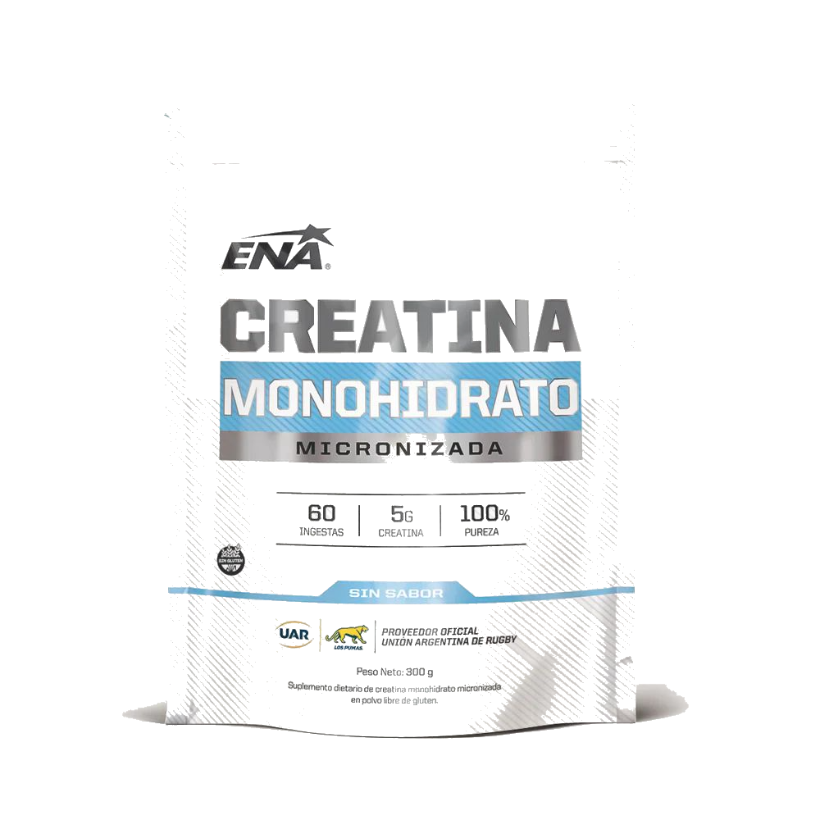
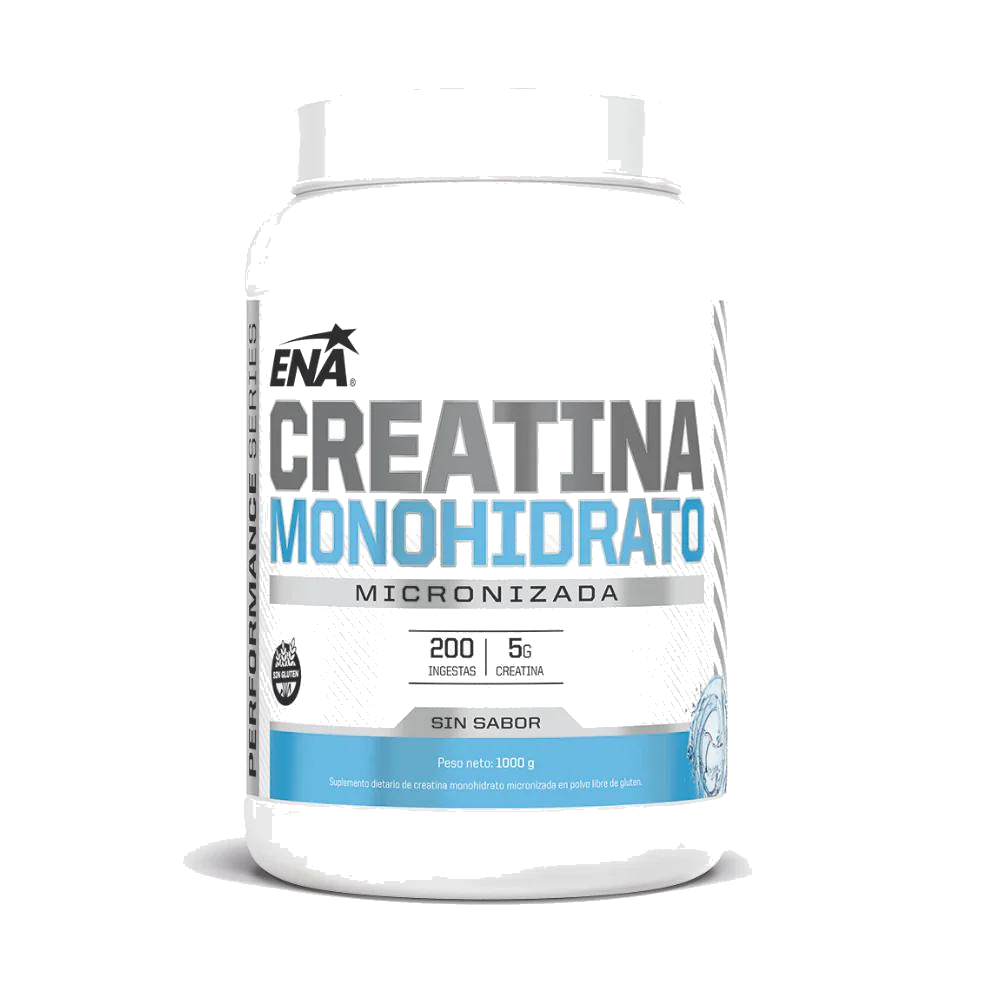
commit

Changed region(s): [[0.1524, 0.2744, 0.8537, 0.9146], [0.2744, 0.0915, 0.7012, 0.2134]]

diff --git a/js/script.js b/js/script.js
@@ -12,14 +12,14 @@ var IMG = 'assets/products/';
 
 /* ---------------- CATÁLOGO ---------------- */
 var CATALOG = [
-  {id:'mm-van', name:'Mutant Mass 5KG', brand:'Star Nutrition', cat:'Ganadores de masa', goal:'Volumen', flavor:'Vainilla · 55 tomas', price:99000, priceCard:108900, rating:4.9, reviews:212, badge:'MÁS VENDIDO', pop:99, img:IMG+'mutant-mass-vanilla.png'},
-  {id:'mm-cho', name:'Mutant Mass 5KG', brand:'Star Nutrition', cat:'Ganadores de masa', goal:'Volumen', flavor:'Chocolate suizo · 55 tomas', price:99000, priceCard:108900, rating:4.9, reviews:187, pop:95, img:IMG+'mutant-mass-chocolate.png'},
-  {id:'mm-fru', name:'Mutant Mass 5KG', brand:'Star Nutrition', cat:'Ganadores de masa', goal:'Volumen', flavor:'Frutilla · 55 tomas', price:99000, priceCard:108900, rating:4.8, reviews:103, pop:90, img:IMG+'mutant-mass-frutilla.png'},
-  {id:'mm-coo', name:'Mutant Mass 5KG', brand:'Star Nutrition', cat:'Ganadores de masa', goal:'Volumen', flavor:'Cookies & Cream · 55 tomas', price:99000, priceCard:108900, rating:4.9, reviews:118, pop:92, img:IMG+'mutant-mass-cookies.png'},
-  {id:'mm-str', name:'Mutant Mass 1.53KG', brand:'Star Nutrition', cat:'Ganadores de masa', goal:'Volumen', flavor:'Frutilla · 17 tomas', price:38300, priceCard:42200, rating:4.8, reviews:96, pop:74, img:IMG+'mutant-mass-strawberry.png'},
-  {id:'mm-str-van', name:'Mutant Mass 1.53KG', brand:'Star Nutrition', cat:'Ganadores de masa', goal:'Volumen', flavor:'Vainilla · 17 tomas', price:38300, priceCard:42200, rating:4.8, reviews:88, pop:73, img:IMG+'mutant-mass-153-vanilla.png'},
-  {id:'mm-str-cho', name:'Mutant Mass 1.53KG', brand:'Star Nutrition', cat:'Ganadores de masa', goal:'Volumen', flavor:'Chocolate suizo · 17 tomas', price:38300, priceCard:42200, rating:4.8, reviews:82, pop:72, img:IMG+'mutant-mass-153-chocolate.png'},
-  {id:'mm-str-coo', name:'Mutant Mass 1.53KG', brand:'Star Nutrition', cat:'Ganadores de masa', goal:'Volumen', flavor:'Cookies & Cream · 17 tomas', price:38300, priceCard:42200, rating:4.8, reviews:79, pop:71, img:IMG+'mutant-mass-153-cookies.png'},
+  {id:'mm-van', name:'Mutant Mass 5KG', brand:'Star Nutrition', cat:'Ganadores de masa', goal:'Volumen', flavor:'Vainilla · 55 tomas', price:105000, priceCard:115500, rating:4.9, reviews:212, badge:'MÁS VENDIDO', pop:99, img:IMG+'mutant-mass-vanilla.png'},
+  {id:'mm-cho', name:'Mutant Mass 5KG', brand:'Star Nutrition', cat:'Ganadores de masa', goal:'Volumen', flavor:'Chocolate suizo · 55 tomas', price:105000, priceCard:115500, rating:4.9, reviews:187, pop:95, img:IMG+'mutant-mass-chocolate.png'},
+  {id:'mm-fru', name:'Mutant Mass 5KG', brand:'Star Nutrition', cat:'Ganadores de masa', goal:'Volumen', flavor:'Frutilla · 55 tomas', price:105000, priceCard:115500, rating:4.8, reviews:103, pop:90, img:IMG+'mutant-mass-frutilla.png'},
+  {id:'mm-coo', name:'Mutant Mass 5KG', brand:'Star Nutrition', cat:'Ganadores de masa', goal:'Volumen', flavor:'Cookies & Cream · 55 tomas', price:105000, priceCard:115500, rating:4.9, reviews:118, pop:92, img:IMG+'mutant-mass-cookies.png'},
+  {id:'mm-str', name:'Mutant Mass 1.53KG', brand:'Star Nutrition', cat:'Ganadores de masa', goal:'Volumen', flavor:'Frutilla · 17 tomas', price:39500, priceCard:43450, rating:4.8, reviews:96, pop:74, img:IMG+'mutant-mass-strawberry.png'},
+  {id:'mm-str-van', name:'Mutant Mass 1.53KG', brand:'Star Nutrition', cat:'Ganadores de masa', goal:'Volumen', flavor:'Vainilla · 17 tomas', price:39500, priceCard:43450, rating:4.8, reviews:88, pop:73, img:IMG+'mutant-mass-153-vanilla.png'},
+  {id:'mm-str-cho', name:'Mutant Mass 1.53KG', brand:'Star Nutrition', cat:'Ganadores de masa', goal:'Volumen', flavor:'Chocolate suizo · 17 tomas', price:39500, priceCard:43450, rating:4.8, reviews:82, pop:72, img:IMG+'mutant-mass-153-chocolate.png'},
+  {id:'mm-str-coo', name:'Mutant Mass 1.53KG', brand:'Star Nutrition', cat:'Ganadores de masa', goal:'Volumen', flavor:'Cookies & Cream · 17 tomas', price:39500, priceCard:43450, rating:4.8, reviews:79, pop:71, img:IMG+'mutant-mass-153-cookies.png'},
   {id:'bcaa-grn', name:'MTOR BCAA', brand:'Star Nutrition', cat:'Aminoácidos', goal:'Recuperación', flavor:'Green Lemonade · 20 serv', price:24000, priceCard:26400, rating:4.9, reviews:143, pop:88, img:IMG+'mtor-bcaa-green.png'},
   {id:'bcaa-fr', name:'MTOR BCAA', brand:'Star Nutrition', cat:'Aminoácidos', goal:'Recuperación', flavor:'Frutos Rojos · 20 serv', price:24000, priceCard:26400, rating:4.7, reviews:88, pop:70, img:IMG+'mtor-bcaa-frutos.png'},
   {id:'bcaa-sl', name:'MTOR BCAA', brand:'Star Nutrition', cat:'Aminoácidos', goal:'Recuperación', flavor:'Frutilla–Lima · 20 serv', price:24000, priceCard:26400, rating:4.8, reviews:67, pop:65, img:IMG+'mtor-bcaa-strawberry.png'},
@@ -27,35 +27,36 @@ var CATALOG = [
   {id:'crea-1k', name:'Creatina Monohidrato 1KG', brand:'Star Nutrition', cat:'Creatinas', goal:'Fuerza', flavor:'Sin sabor · 200 serv', price:71000, priceCard:78500, rating:4.9, reviews:110, pop:80, img:IMG+'creatine-1000.png'},
   {id:'crea-bag-sin', name:'Creatina Monohidrato Doypack 300g', brand:'Star Nutrition', cat:'Creatinas', goal:'Fuerza', flavor:'Sin sabor · 60 serv', price:23000, priceCard:25300, rating:4.9, reviews:96, pop:84, img:IMG+'creatine-bag.png'},
   {id:'crea-bag', name:'Creatina Monohidrato Doypack 300g', brand:'Star Nutrition', cat:'Creatinas', goal:'Fuerza', flavor:'Frutos Rojos · 60 serv', price:23000, priceCard:25300, rating:4.8, reviews:74, pop:72, img:IMG+'star-creatine-fr-bag.png'},
-  {id:'col-fr', name:'Colágeno Hidrolizado', brand:'Star Nutrition', cat:'Colágeno', goal:'Recuperación', flavor:'Frutos Rojos · 210g', price:16000, priceCard:17600, rating:4.8, reviews:74, pop:68, img:IMG+'collagen-frutos.png'},
-  {id:'col-lim', name:'Colágeno Hidrolizado', brand:'Star Nutrition', cat:'Colágeno', goal:'Recuperación', flavor:'Limón · 210g · 20 serv', price:16000, priceCard:17600, rating:4.8, reviews:63, pop:67, img:IMG+'collagen-limon.png'},
-  {id:'star-col-sport', name:'Colágeno Sport', brand:'Star Nutrition', cat:'Colágeno', goal:'Recuperación', flavor:'Naranja · 360g · 30 serv', price:18600, priceCard:20500, rating:4.8, reviews:47, pop:66, img:IMG+'collagen-sport-naranja.png'},
-  {id:'col-pl', name:'Colágeno Plus', brand:'Star Nutrition', cat:'Colágeno', goal:'Recuperación', flavor:'Limón · 360g', price:18600, priceCard:20500, rating:4.7, reviews:51, pop:60, img:IMG+'collagen-plus-limon.png'},
-  {id:'mag', name:'Citrato de Magnesio', brand:'Star Nutrition', cat:'Citrato de Magnesio', goal:'Recuperación', flavor:'Frutos Rojos · 500g · 142 serv', price:24000, priceCard:26400, rating:4.8, reviews:129, pop:75, img:IMG+'magnesio.png'},
-  {id:'mag-neutro', name:'Citrato de Magnesio', brand:'Star Nutrition', cat:'Citrato de Magnesio', goal:'Recuperación', flavor:'Sin sabor (neutro) · 500g · 142 serv', price:24000, priceCard:26400, rating:4.8, reviews:84, pop:74, img:IMG+'magnesio-neutro.png'},
+  {id:'col-fr', name:'Colágeno Hidrolizado', brand:'Star Nutrition', cat:'Colágeno', goal:'Recuperación', flavor:'Frutos Rojos · 210g', price:16500, priceCard:18200, rating:4.8, reviews:74, pop:68, img:IMG+'collagen-frutos.png'},
+  {id:'col-lim', name:'Colágeno Hidrolizado', brand:'Star Nutrition', cat:'Colágeno', goal:'Recuperación', flavor:'Limón · 210g · 20 serv', price:16500, priceCard:18200, rating:4.8, reviews:63, pop:67, img:IMG+'collagen-limon.png'},
+  {id:'star-col-sport', name:'Colágeno Sport', brand:'Star Nutrition', cat:'Colágeno', goal:'Recuperación', flavor:'Naranja · 360g · 30 serv', price:19000, priceCard:20900, rating:4.8, reviews:47, pop:66, img:IMG+'collagen-sport-naranja.png'},
+  {id:'col-pl', name:'Colágeno Plus', brand:'Star Nutrition', cat:'Colágeno', goal:'Recuperación', flavor:'Limón · 360g', price:19000, priceCard:20900, rating:4.7, reviews:51, pop:60, img:IMG+'collagen-plus-limon.png'},
+  {id:'mag', name:'Citrato de Magnesio', brand:'Star Nutrition', cat:'Citrato de Magnesio', goal:'Recuperación', flavor:'Frutos Rojos · 500g · 142 serv', price:25000, priceCard:27500, rating:4.8, reviews:129, pop:75, img:IMG+'magnesio.png'},
+  {id:'mag-neutro', name:'Citrato de Magnesio', brand:'Star Nutrition', cat:'Citrato de Magnesio', goal:'Recuperación', flavor:'Sin sabor (neutro) · 500g · 142 serv', price:25000, priceCard:27500, rating:4.8, reviews:84, pop:74, img:IMG+'magnesio-neutro.png'},
   {id:'star-mag-caps', name:'Citrato de Magnesio', brand:'Star Nutrition', cat:'Citrato de Magnesio', goal:'Recuperación', flavor:'60 cápsulas', price:14000, priceCard:15400, rating:4.8, reviews:112, pop:76, img:IMG+'star-magnesio-caps.png'},
-  {id:'star-zma', name:'ZMA', brand:'Star Nutrition', cat:'Resto de suplementos', goal:'Recuperación', flavor:'The Real ZMA · 90 cápsulas', price:14000, priceCard:15400, rating:4.8, reviews:67, pop:70, img:IMG+'star-zma.png'},
+  {id:'star-zma', name:'ZMA', brand:'Star Nutrition', cat:'Resto de suplementos', goal:'Recuperación', flavor:'The Real ZMA · 90 cápsulas', price:14800, priceCard:16280, rating:4.8, reviews:67, pop:70, img:IMG+'star-zma.png'},
   {id:'hyd-li', name:'Hydro Plus Resistencia', brand:'Star Nutrition', cat:'Hidratación', goal:'Resistencia', flavor:'Lima Limón · rinde 10L', price:16000, priceCard:17600, rating:4.6, reviews:42, pop:55, img:IMG+'hydro-plus-lima.png'},
   {id:'hyd-bl', name:'Hydro Plus Resistencia', brand:'Star Nutrition', cat:'Hidratación', goal:'Resistencia', flavor:'Blue Raz · rinde 10L', price:16000, priceCard:17600, rating:4.7, reviews:38, pop:54, img:IMG+'hydro-plus-bluraz.png'},
-  {id:'caf', name:'Cafeína 200', brand:'Star Nutrition', cat:'Energía', goal:'Energía', flavor:'200mg · 30 cápsulas', price:8300, priceCard:9200, rating:4.9, reviews:156, badge:'TOP', pop:90, img:IMG+'caffeine-200.png'},
+  {id:'caf', name:'Cafeína 200', brand:'Star Nutrition', cat:'Energía', goal:'Energía', flavor:'200mg · 30 cápsulas', price:8500, priceCard:9400, rating:4.9, reviews:156, badge:'TOP', pop:90, img:IMG+'caffeine-200.png'},
   {id:'cla', name:'CLA 1000', brand:'Star Nutrition', cat:'Quemadores', goal:'Definición', flavor:'90 cápsulas', price:20000, priceCard:22000, rating:4.5, reviews:63, pop:58, img:IMG+'cla-1000.png'},
-  {id:'lcar', name:'L-Carnitina 1000', brand:'Star Nutrition', cat:'Quemadores', goal:'Definición', flavor:'60 comprimidos', price:12500, priceCard:13750, rating:4.6, reviews:71, pop:62, img:IMG+'l-carnitine.png'},
-  {id:'plant', name:'Proteína Vegetal Just Plant', brand:'Star Nutrition', cat:'Proteínas', goal:'Definición', flavor:'Vegana · 2LB · 30 serv', price:35000, priceCard:38500, rating:4.7, reviews:45, badge:'NUEVO', pop:66, img:IMG+'plant-protein.png'},
+  {id:'lcar', name:'L-Carnitina 1000', brand:'Star Nutrition', cat:'Quemadores', goal:'Definición', flavor:'60 comprimidos', price:17000, priceCard:18700, rating:4.6, reviews:71, pop:62, img:IMG+'l-carnitine.png'},
+  {id:'plant', name:'Proteína Vegetal Just Plant', brand:'Star Nutrition', cat:'Proteínas', goal:'Definición', flavor:'Vegana · 2LB · 30 serv', price:36500, priceCard:40200, rating:4.7, reviews:45, badge:'NUEVO', pop:66, img:IMG+'plant-protein.png'},
   {id:'multi', name:'Multivitamínico Todo en Uno', brand:'Star Nutrition', cat:'Vitaminas', goal:'Salud', flavor:'60 comprimidos', price:18000, priceCard:19800, rating:4.8, reviews:98, pop:78, img:IMG+'multivitamin.png'},
   {id:'iron', name:'IRON Pack Multivitamínico', brand:'Star Nutrition', cat:'Vitaminas', goal:'Salud', flavor:'Fruit Punch · 44 serv', price:85000, priceCard:93500, rating:4.7, reviews:52, pop:64, img:IMG+'iron-pack.png'},
 
   /* ===== ENA ===== */
-  {id:'ena-whey-cho', name:'Proteína Whey Truemade', brand:'ENA', cat:'Proteínas', goal:'Volumen', flavor:'Double Rich Chocolate · 930g', price:65500, priceCard:72100, rating:4.9, reviews:176, badge:'NUEVO', pop:92, img:IMG+'ena-whey-chocolate.png'},
-  {id:'ena-whey-van', name:'Proteína Whey Truemade', brand:'ENA', cat:'Proteínas', goal:'Volumen', flavor:'Vanilla Ice Cream · 930g', price:65500, priceCard:72100, rating:4.8, reviews:131, pop:86, img:IMG+'ena-whey-vainilla.png'},
-  {id:'ena-whey-fru', name:'Proteína Whey Truemade', brand:'ENA', cat:'Proteínas', goal:'Volumen', flavor:'Strawberry Milkshake · 930g', price:65500, priceCard:72100, rating:4.8, reviews:98, pop:80, img:IMG+'ena-whey-frutilla.png'},
-  {id:'ena-whey-coo', name:'Proteína Whey Truemade', brand:'ENA', cat:'Proteínas', goal:'Volumen', flavor:'Cookies & Cream · 930g', price:65500, priceCard:72100, rating:4.9, reviews:142, pop:88, img:IMG+'ena-whey-cookies.png'},
+  {id:'ena-whey-cho', name:'Proteína Whey Truemade', brand:'ENA', cat:'Proteínas', goal:'Volumen', flavor:'Double Rich Chocolate · 930g', price:69500, priceCard:76500, rating:4.9, reviews:176, badge:'NUEVO', pop:92, img:IMG+'ena-whey-chocolate.png'},
+  {id:'ena-whey-van', name:'Proteína Whey Truemade', brand:'ENA', cat:'Proteínas', goal:'Volumen', flavor:'Vanilla Ice Cream · 930g', price:69500, priceCard:76500, rating:4.8, reviews:131, pop:86, img:IMG+'ena-whey-vainilla.png'},
+  {id:'ena-whey-fru', name:'Proteína Whey Truemade', brand:'ENA', cat:'Proteínas', goal:'Volumen', flavor:'Strawberry Milkshake · 930g', price:69500, priceCard:76500, rating:4.8, reviews:98, pop:80, img:IMG+'ena-whey-frutilla.png'},
+  {id:'ena-whey-coo', name:'Proteína Whey Truemade', brand:'ENA', cat:'Proteínas', goal:'Volumen', flavor:'Cookies & Cream · 930g', price:69500, priceCard:76500, rating:4.9, reviews:142, pop:88, img:IMG+'ena-whey-cookies.png'},
   {id:'ena-um-cho', name:'Ultra Mass Ganador de Masa', brand:'ENA', cat:'Ganadores de masa', goal:'Volumen', flavor:'Chocolate · 1.5kg', price:43000, priceCard:47300, rating:4.7, reviews:64, pop:75, img:IMG+'ena-ultramass-chocolate.png'},
   {id:'ena-um-van', name:'Ultra Mass Ganador de Masa', brand:'ENA', cat:'Ganadores de masa', goal:'Volumen', flavor:'Vainilla · 1.5kg', price:43000, priceCard:47300, rating:4.7, reviews:51, pop:72, img:IMG+'ena-ultramass-vainilla.png'},
   {id:'ena-pw-fp', name:'Pre War Pre-Entreno', brand:'ENA', cat:'Pre-entrenos', goal:'Energía', flavor:'Fruit Punch · 400g', price:27500, priceCard:30250, rating:4.8, reviews:89, badge:'TOP', pop:90, img:IMG+'ena-prewar-fruitpunch.png'},
   {id:'ena-pw-lem', name:'Pre War Pre-Entreno', brand:'ENA', cat:'Pre-entrenos', goal:'Energía', flavor:'Lemonade · 400g', price:27500, priceCard:30250, rating:4.7, reviews:62, pop:78, img:IMG+'ena-prewar-lemonade.png'},
   {id:'ena-crea-1k', name:'Creatina Monohidrato 1KG', brand:'ENA', cat:'Creatinas', goal:'Fuerza', flavor:'Sin sabor · 1kg · 200 ingestas', price:72000, priceCard:79200, rating:4.9, reviews:120, pop:84, img:IMG+'ena-creatina-1000.png'},
-  {id:'ena-crea-fp', name:'Creatina Monohidrato', brand:'ENA', cat:'Creatinas', goal:'Fuerza', flavor:'Fruit Punch · 300g', price:24000, priceCard:26400, rating:4.8, reviews:77, pop:70, img:IMG+'ena-creatina-fruitpunch.png'},
-  {id:'ena-crea-nar', name:'Creatina Monohidrato', brand:'ENA', cat:'Creatinas', goal:'Fuerza', flavor:'Naranja · 342g', price:24000, priceCard:26400, rating:4.8, reviews:58, pop:68, img:IMG+'ena-creatina-naranja.png'},
+  {id:'ena-crea-fp', name:'Creatina Monohidrato', brand:'ENA', cat:'Creatinas', goal:'Fuerza', flavor:'Frutos Rojos · 300g', price:24000, priceCard:26400, rating:4.8, reviews:77, pop:70, img:IMG+'ena-creatina-fruitpunch.png', splitCards:true},
+  {id:'ena-crea-nar', name:'Creatina Monohidrato', brand:'ENA', cat:'Creatinas', goal:'Fuerza', flavor:'Naranja · 342g', price:24000, priceCard:26400, rating:4.8, reviews:58, pop:68, img:IMG+'ena-creatina-naranja.png', splitCards:true},
+  {id:'ena-crea-sin', name:'Creatina Monohidrato', brand:'ENA', cat:'Creatinas', goal:'Fuerza', flavor:'Sin sabor · 300g · 60 ingestas', price:24000, priceCard:26400, rating:4.8, reviews:64, pop:69, img:IMG+'ena-creatina-sinsabor.png', splitCards:true},
   {id:'ena-col', name:'Colágeno Sport', brand:'ENA', cat:'Colágeno', goal:'Recuperación', flavor:'Naranja · 407g', price:28000, priceCard:30800, rating:4.7, reviews:49, pop:62, img:IMG+'ena-colageno-sport.png'},
   {id:'ena-mag-c', name:'Citrato de Magnesio', brand:'ENA', cat:'Citrato de Magnesio', goal:'Recuperación', flavor:'60 cápsulas', price:13000, priceCard:14300, rating:4.8, reviews:96, pop:73, img:IMG+'ena-magnesio-caps.png'},
   {id:'ena-mag-p', name:'Citrato de Magnesio Polvo', brand:'ENA', cat:'Citrato de Magnesio', goal:'Recuperación', flavor:'Lemonade · 192g', price:16400, priceCard:18100, rating:4.7, reviews:54, pop:64, img:IMG+'ena-magnesio-polvo.png'},
@@ -106,39 +107,39 @@ var CATALOG = [
   {id:'innova-mag', name:'Citrato de Magnesio', brand:'Innova Naturals', cat:'Citrato de Magnesio', goal:'Recuperación', flavor:'Caps', price:19000, priceCard:20900, rating:4.7, reviews:35, pop:55, img:IMG+'innova-magnesio.png'},
 
   /* ===== STAR NUTRITION — Proteínas (nuevas) ===== */
-  {id:'star-whey-van', name:'Proteína Whey', brand:'Star Nutrition', cat:'Proteínas', goal:'Volumen', flavor:'Vainilla Ice Cream · 908g · 2LB', price:52500, priceCard:57750, rating:4.9, reviews:240, badge:'MÁS VENDIDO', pop:97, img:IMG+'star-whey-vainilla.png'},
-  {id:'star-whey-cho', name:'Proteína Whey', brand:'Star Nutrition', cat:'Proteínas', goal:'Volumen', flavor:'Chocolate Suizo · 908g · 2LB', price:52500, priceCard:57750, rating:4.9, reviews:218, pop:96, img:IMG+'star-whey-chocolate.png'},
-  {id:'star-whey-coo', name:'Proteína Whey', brand:'Star Nutrition', cat:'Proteínas', goal:'Volumen', flavor:'Cookies & Cream · 908g · 2LB', price:52500, priceCard:57750, rating:4.9, reviews:172, pop:90, img:IMG+'star-whey-cookies.png'},
-  {id:'star-whey-fru', name:'Proteína Whey', brand:'Star Nutrition', cat:'Proteínas', goal:'Volumen', flavor:'Strawberry Cream · 908g · 2LB', price:52500, priceCard:57750, rating:4.8, reviews:121, pop:84, img:IMG+'star-whey-frutilla.png'},
-  {id:'star-whey-ban', name:'Proteína Whey', brand:'Star Nutrition', cat:'Proteínas', goal:'Volumen', flavor:'Banana Cream · 908g · 2LB', price:52500, priceCard:57750, rating:4.8, reviews:104, pop:82, img:IMG+'star-whey-banana.png'},
-  {id:'star-plat-cho', name:'Proteína Whey Platinum', brand:'Star Nutrition', cat:'Proteínas', goal:'Volumen', flavor:'Chocolate Suizo · 908g · 2LB', price:56000, priceCard:61600, rating:4.9, reviews:156, badge:'PREMIUM', pop:91, img:IMG+'star-platinum-chocolate.png'},
-  {id:'star-plat-van', name:'Proteína Whey Platinum', brand:'Star Nutrition', cat:'Proteínas', goal:'Volumen', flavor:'Vanilla Ice Cream · 908g · 2LB', price:56000, priceCard:61600, rating:4.9, reviews:132, pop:88, img:IMG+'star-platinum-vainilla.png'},
-  {id:'star-plat-coo', name:'Proteína Whey Platinum', brand:'Star Nutrition', cat:'Proteínas', goal:'Volumen', flavor:'Cookies & Cream · 908g · 2LB', price:56000, priceCard:61600, rating:4.8, reviews:98, pop:83, img:IMG+'star-platinum-cookies.png'},
-  {id:'star-plat-fru', name:'Proteína Whey Platinum', brand:'Star Nutrition', cat:'Proteínas', goal:'Volumen', flavor:'Strawberry Cream · 908g · 2LB', price:56000, priceCard:61600, rating:4.8, reviews:76, pop:78, img:IMG+'star-platinum-frutilla.png'},
-  {id:'star-plat-ban', name:'Proteína Whey Platinum', brand:'Star Nutrition', cat:'Proteínas', goal:'Volumen', flavor:'Banana Cream · 908g · 2LB', price:56000, priceCard:61600, rating:4.8, reviews:69, pop:76, img:IMG+'star-platinum-banana.png'},
-  {id:'star-plat3k-cho', name:'Proteína Whey Platinum 3KG', brand:'Star Nutrition', cat:'Proteínas', goal:'Volumen', flavor:'Chocolate Suizo · 3KG · 100 serv', price:162000, priceCard:178200, rating:4.9, reviews:64, badge:'PACK PRO', pop:80, img:IMG+'star-platinum3k-chocolate.png'},
-  {id:'star-plat3k-van', name:'Proteína Whey Platinum 3KG', brand:'Star Nutrition', cat:'Proteínas', goal:'Volumen', flavor:'Vanilla Ice Cream · 3KG · 100 serv', price:162000, priceCard:178200, rating:4.9, reviews:51, pop:77, img:IMG+'star-platinum3k-vainilla.png'},
-  {id:'star-plat3k-coo', name:'Proteína Whey Platinum 3KG', brand:'Star Nutrition', cat:'Proteínas', goal:'Volumen', flavor:'Cookies & Cream · 3KG · 100 serv', price:162000, priceCard:178200, rating:4.8, reviews:43, pop:74, img:IMG+'star-platinum3k-cookies.png'},
-  {id:'star-plat3k-fru', name:'Proteína Whey Platinum 3KG', brand:'Star Nutrition', cat:'Proteínas', goal:'Volumen', flavor:'Strawberry Cream · 3KG · 100 serv', price:162000, priceCard:178200, rating:4.8, reviews:38, pop:71, img:IMG+'star-platinum3k-frutilla.png'},
-  {id:'star-plat3k-ban', name:'Proteína Whey Platinum 3KG', brand:'Star Nutrition', cat:'Proteínas', goal:'Volumen', flavor:'Banana Cream · 3KG · 100 serv', price:162000, priceCard:178200, rating:4.8, reviews:35, pop:70, img:IMG+'star-platinum3k-banana.png'},
+  {id:'star-whey-van', name:'Proteína Whey', brand:'Star Nutrition', cat:'Proteínas', goal:'Volumen', flavor:'Vainilla Ice Cream · 908g · 2LB', price:54000, priceCard:59400, rating:4.9, reviews:240, badge:'MÁS VENDIDO', pop:97, img:IMG+'star-whey-vainilla.png'},
+  {id:'star-whey-cho', name:'Proteína Whey', brand:'Star Nutrition', cat:'Proteínas', goal:'Volumen', flavor:'Chocolate Suizo · 908g · 2LB', price:54000, priceCard:59400, rating:4.9, reviews:218, pop:96, img:IMG+'star-whey-chocolate.png'},
+  {id:'star-whey-coo', name:'Proteína Whey', brand:'Star Nutrition', cat:'Proteínas', goal:'Volumen', flavor:'Cookies & Cream · 908g · 2LB', price:54000, priceCard:59400, rating:4.9, reviews:172, pop:90, img:IMG+'star-whey-cookies.png'},
+  {id:'star-whey-fru', name:'Proteína Whey', brand:'Star Nutrition', cat:'Proteínas', goal:'Volumen', flavor:'Strawberry Cream · 908g · 2LB', price:54000, priceCard:59400, rating:4.8, reviews:121, pop:84, img:IMG+'star-whey-frutilla.png'},
+  {id:'star-whey-ban', name:'Proteína Whey', brand:'Star Nutrition', cat:'Proteínas', goal:'Volumen', flavor:'Banana Cream · 908g · 2LB', price:54000, priceCard:59400, rating:4.8, reviews:104, pop:82, img:IMG+'star-whey-banana.png'},
+  {id:'star-plat-cho', name:'Proteína Whey Platinum', brand:'Star Nutrition', cat:'Proteínas', goal:'Volumen', flavor:'Chocolate Suizo · 908g · 2LB', price:58000, priceCard:63800, rating:4.9, reviews:156, badge:'PREMIUM', pop:91, img:IMG+'star-platinum-chocolate.png'},
+  {id:'star-plat-van', name:'Proteína Whey Platinum', brand:'Star Nutrition', cat:'Proteínas', goal:'Volumen', flavor:'Vanilla Ice Cream · 908g · 2LB', price:58000, priceCard:63800, rating:4.9, reviews:132, pop:88, img:IMG+'star-platinum-vainilla.png'},
+  {id:'star-plat-coo', name:'Proteína Whey Platinum', brand:'Star Nutrition', cat:'Proteínas', goal:'Volumen', flavor:'Cookies & Cream · 908g · 2LB', price:58000, priceCard:63800, rating:4.8, reviews:98, pop:83, img:IMG+'star-platinum-cookies.png'},
+  {id:'star-plat-fru', name:'Proteína Whey Platinum', brand:'Star Nutrition', cat:'Proteínas', goal:'Volumen', flavor:'Strawberry Cream · 908g · 2LB', price:58000, priceCard:63800, rating:4.8, reviews:76, pop:78, img:IMG+'star-platinum-frutilla.png'},
+  {id:'star-plat-ban', name:'Proteína Whey Platinum', brand:'Star Nutrition', cat:'Proteínas', goal:'Volumen', flavor:'Banana Cream · 908g · 2LB', price:58000, priceCard:63800, rating:4.8, reviews:69, pop:76, img:IMG+'star-platinum-banana.png'},
+  {id:'star-plat3k-cho', name:'Proteína Whey Platinum 3KG', brand:'Star Nutrition', cat:'Proteínas', goal:'Volumen', flavor:'Chocolate Suizo · 3KG · 100 serv', price:175000, priceCard:192500, rating:4.9, reviews:64, badge:'PACK PRO', pop:80, img:IMG+'star-platinum3k-chocolate.png'},
+  {id:'star-plat3k-van', name:'Proteína Whey Platinum 3KG', brand:'Star Nutrition', cat:'Proteínas', goal:'Volumen', flavor:'Vanilla Ice Cream · 3KG · 100 serv', price:175000, priceCard:192500, rating:4.9, reviews:51, pop:77, img:IMG+'star-platinum3k-vainilla.png'},
+  {id:'star-plat3k-coo', name:'Proteína Whey Platinum 3KG', brand:'Star Nutrition', cat:'Proteínas', goal:'Volumen', flavor:'Cookies & Cream · 3KG · 100 serv', price:175000, priceCard:192500, rating:4.8, reviews:43, pop:74, img:IMG+'star-platinum3k-cookies.png'},
+  {id:'star-plat3k-fru', name:'Proteína Whey Platinum 3KG', brand:'Star Nutrition', cat:'Proteínas', goal:'Volumen', flavor:'Strawberry Cream · 3KG · 100 serv', price:175000, priceCard:192500, rating:4.8, reviews:38, pop:71, img:IMG+'star-platinum3k-frutilla.png'},
+  {id:'star-plat3k-ban', name:'Proteína Whey Platinum 3KG', brand:'Star Nutrition', cat:'Proteínas', goal:'Volumen', flavor:'Banana Cream · 3KG · 100 serv', price:175000, priceCard:192500, rating:4.8, reviews:35, pop:70, img:IMG+'star-platinum3k-banana.png'},
 
   /* ===== STAR NUTRITION — Pre-entrenos / Quemadores / Vitaminas (nuevos) ===== */
-  {id:'star-v8-lima', name:'Pump V8', brand:'Star Nutrition', cat:'Pre-entrenos', goal:'Energía', flavor:'Citrus Slush (Lima) · 285g · 30 serv', price:26000, priceCard:29000, rating:4.8, reviews:118, badge:'TOP', pop:92, img:IMG+'star-v8-lima.png'},
-  {id:'star-v8-sand', name:'Pump V8', brand:'Star Nutrition', cat:'Pre-entrenos', goal:'Energía', flavor:'Watermelon (Sandía) · 285g · 30 serv', price:26000, priceCard:29000, rating:4.8, reviews:97, pop:88, img:IMG+'star-v8-sandia.png'},
-  {id:'star-v8-uva', name:'Pump V8', brand:'Star Nutrition', cat:'Pre-entrenos', goal:'Energía', flavor:'Grape Attack (Uva) · 285g · 30 serv', price:26000, priceCard:29000, rating:4.7, reviews:81, pop:85, img:IMG+'star-v8-uva.png'},
-  {id:'star-v8-acai', name:'Pump V8', brand:'Star Nutrition', cat:'Pre-entrenos', goal:'Energía', flavor:'Açaí Power · 285g · 30 serv', price:26000, priceCard:29000, rating:4.8, reviews:73, pop:84, img:IMG+'star-v8-acai.png'},
-  {id:'star-3d-fl', name:'Pump 3Di Ripped', brand:'Star Nutrition', cat:'Pre-entrenos', goal:'Definición', flavor:'Strawberry Lime · 315g · 45 serv', price:30500, priceCard:33550, rating:4.8, reviews:64, pop:82, img:IMG+'star-3dripped-frutillalima.png'},
-  {id:'star-3d-lem', name:'Pump 3Di Ripped', brand:'Star Nutrition', cat:'Pre-entrenos', goal:'Definición', flavor:'Lemonade · 315g · 45 serv', price:30500, priceCard:33550, rating:4.7, reviews:52, pop:79, img:IMG+'star-3dripped-limonada.png'},
+  {id:'star-v8-lima', name:'Pump V8', brand:'Star Nutrition', cat:'Pre-entrenos', goal:'Energía', flavor:'Citrus Slush (Lima) · 285g · 30 serv', price:27500, priceCard:30300, rating:4.8, reviews:118, badge:'TOP', pop:92, img:IMG+'star-v8-lima.png'},
+  {id:'star-v8-sand', name:'Pump V8', brand:'Star Nutrition', cat:'Pre-entrenos', goal:'Energía', flavor:'Watermelon (Sandía) · 285g · 30 serv', price:27500, priceCard:30300, rating:4.8, reviews:97, pop:88, img:IMG+'star-v8-sandia.png'},
+  {id:'star-v8-uva', name:'Pump V8', brand:'Star Nutrition', cat:'Pre-entrenos', goal:'Energía', flavor:'Grape Attack (Uva) · 285g · 30 serv', price:27500, priceCard:30300, rating:4.7, reviews:81, pop:85, img:IMG+'star-v8-uva.png'},
+  {id:'star-v8-acai', name:'Pump V8', brand:'Star Nutrition', cat:'Pre-entrenos', goal:'Energía', flavor:'Açaí Power · 285g · 30 serv', price:27500, priceCard:30300, rating:4.8, reviews:73, pop:84, img:IMG+'star-v8-acai.png'},
+  {id:'star-3d-fl', name:'Pump 3Di Ripped', brand:'Star Nutrition', cat:'Pre-entrenos', goal:'Definición', flavor:'Strawberry Lime · 315g · 45 serv', price:31500, priceCard:34700, rating:4.8, reviews:64, pop:82, img:IMG+'star-3dripped-frutillalima.png'},
+  {id:'star-3d-lem', name:'Pump 3Di Ripped', brand:'Star Nutrition', cat:'Pre-entrenos', goal:'Definición', flavor:'Lemonade · 315g · 45 serv', price:31500, priceCard:34700, rating:4.7, reviews:52, pop:79, img:IMG+'star-3dripped-limonada.png'},
   {id:'star-thermo', name:'Thermo Fuel Max', brand:'Star Nutrition', cat:'Quemadores', goal:'Definición', flavor:'120 cápsulas · 30 serv', price:18500, priceCard:20500, rating:4.6, reviews:58, pop:64, img:IMG+'star-thermofuel.png'},
-  {id:'star-glut', name:'L-Glutamina', brand:'Star Nutrition', cat:'Resto de suplementos', goal:'Recuperación', flavor:'100% micronizada · 300g · 60 serv', price:24500, priceCard:26950, rating:4.8, reviews:71, pop:70, img:IMG+'star-glutamine.png'},
+  {id:'star-glut', name:'L-Glutamina', brand:'Star Nutrition', cat:'Resto de suplementos', goal:'Recuperación', flavor:'100% micronizada · 300g · 60 serv', price:25000, priceCard:27500, rating:4.8, reviews:71, pop:70, img:IMG+'star-glutamine.png'},
   {id:'star-hmb', name:'HMB Fuerza y Recuperación', brand:'Star Nutrition', cat:'Resto de suplementos', goal:'Fuerza', flavor:'180 cápsulas · 90 serv', price:22500, priceCard:24750, rating:4.7, reviews:44, pop:62, img:IMG+'star-hmb.png'},
   {id:'star-resv', name:'Resveratrol 500', brand:'Star Nutrition', cat:'Salud y Bienestar', goal:'Salud', flavor:'100% natural · 60 cápsulas', price:18500, priceCard:20500, rating:4.7, reviews:39, pop:58, img:IMG+'star-resveratrol.png'},
   {id:'star-vitc', name:'Vitamina C', brand:'Star Nutrition', cat:'Vitaminas', goal:'Salud', flavor:'60 cápsulas', price:8500, priceCard:9400, rating:4.8, reviews:86, pop:72, img:IMG+'star-vitaminac.png'},
   {id:'star-k2d3', name:'Vitaminas K2 + D3', brand:'Star Nutrition', cat:'Vitaminas', goal:'Salud', flavor:'60 cápsulas', price:19500, priceCard:21450, rating:4.8, reviews:63, pop:68, img:IMG+'star-k2d3.png'},
-  {id:'star-omega3', name:'Omega 3 Aceite de Pescado', brand:'Star Nutrition', cat:'Vitaminas', goal:'Salud', flavor:'1000mg · 60 cápsulas', price:26500, priceCard:29150, rating:4.8, reviews:91, pop:74, img:IMG+'star-omega3.png'},
+  {id:'star-omega3', name:'Omega 3 Aceite de Pescado', brand:'Star Nutrition', cat:'Vitaminas', goal:'Salud', flavor:'1000mg · 60 cápsulas', price:27000, priceCard:29700, rating:4.8, reviews:91, pop:74, img:IMG+'star-omega3.png'},
 
   /* ===== STAR / XTRENGHT — Accesorios ===== */
-  {id:'star-shk-got', name:'Shaker Got Protein', brand:'Star Nutrition', cat:'Accesorios', goal:'Salud', flavor:'600ml · con resorte mezclador', price:9000, priceCard:9800, rating:4.7, reviews:54, pop:60, img:IMG+'star-shaker-gotprotein.png'},
+  {id:'star-shk-got', name:'Shaker Got Protein', brand:'Star Nutrition', cat:'Accesorios', goal:'Salud', flavor:'600ml · con resorte mezclador', price:8500, priceCard:9400, rating:4.7, reviews:54, pop:60, img:IMG+'star-shaker-gotprotein.png'},
   {id:'star-shk-v8', name:'Shaker Pump V8', brand:'Star Nutrition', cat:'Accesorios', goal:'Salud', flavor:'400ml · con compartimento', price:8500, priceCard:9400, rating:4.7, reviews:41, pop:58, img:IMG+'star-shaker-pumpv8.png'},
   {id:'xt-shk', name:'Shaker Xtrenght', brand:'Xtrenght', cat:'Accesorios', goal:'Salud', flavor:'600ml · con resorte mezclador', price:8500, priceCard:9400, rating:4.6, reviews:33, pop:55, img:IMG+'xt-shaker.png'},
 
@@ -155,13 +156,19 @@ var CATALOG = [
   {id:'xt-best-van', name:'Proteína Whey Best', brand:'Xtrenght', cat:'Proteínas', goal:'Volumen', flavor:'Vainilla · 907g · 2LB · 30 serv', price:54500, priceCard:60000, rating:4.8, reviews:55, pop:74, img:IMG+'xt-best-vainilla.png'},
   {id:'xt-crea-500', name:'Creatina Grado Farmacéutico 500g', brand:'Xtrenght', cat:'Creatinas', goal:'Fuerza', flavor:'Micronizada · 500g · 100 serv', price:30000, priceCard:33000, rating:4.9, reviews:72, badge:'TOP', pop:85, img:IMG+'xt-creatine-500.png'},
   {id:'xt-crea-250', name:'Creatina Grado Farmacéutico 250g', brand:'Xtrenght', cat:'Creatinas', goal:'Fuerza', flavor:'Micronizada · 250g · 50 serv', price:18000, priceCard:19800, rating:4.8, reviews:54, pop:73, img:IMG+'xt-creatine-250.png'},
-  {id:'xt-cutter', name:'Cutter Termogénico Quemador', brand:'Xtrenght', cat:'Quemadores', goal:'Definición', flavor:'120 cápsulas · 60 serv', price:14000, priceCard:15400, rating:4.6, reviews:47, pop:66, img:IMG+'xt-cutter.png'}
+  {id:'xt-cutter', name:'Cutter Termogénico Quemador', brand:'Xtrenght', cat:'Quemadores', goal:'Definición', flavor:'120 cápsulas · 60 serv', price:14000, priceCard:15400, rating:4.6, reviews:47, pop:66, img:IMG+'xt-cutter.png'},
+
+  /* ===== ONE FIT NUTRITION / LABS NUTRITION — nuevos ===== */
+  {id:'onefit-gainer-van', name:'The Best Gainer Mass', brand:'One Fit Nutrition', cat:'Ganadores de masa', goal:'Volumen', flavor:'Vainilla · 1.5kg', price:28000, priceCard:30800, rating:4.7, reviews:12, badge:'NUEVO', pop:65, img:IMG+'onefit-gainer-mass.png'},
+  {id:'onefit-gainer-fru', name:'The Best Gainer Mass', brand:'One Fit Nutrition', cat:'Ganadores de masa', goal:'Volumen', flavor:'Frutilla · 1.5kg', price:28000, priceCard:30800, rating:4.7, reviews:9, pop:63, img:IMG+'onefit-gainer-mass.png'},
+  {id:'onefit-oxido', name:'Óxido Nítrico 5.1', brand:'One Fit Nutrition', cat:'Pre-entrenos', goal:'Energía', flavor:'Limón · 210g · 30 serv', price:15900, priceCard:17500, rating:4.7, reviews:8, badge:'NUEVO', pop:62, img:IMG+'onefit-oxido-nitrico-limon.png'},
+  {id:'labs-nac', name:'NAC', brand:'Labs Nutrition', cat:'Salud y Bienestar', goal:'Salud', flavor:'N-Acetilcisteína · 60 cápsulas', price:20000, priceCard:22000, rating:4.7, reviews:6, badge:'NUEVO', pop:58, img:IMG+'labs-nac.png'}
 ];
 window.MUTANTS_CATALOG = CATALOG;
 
 var CATEGORIES = ['Proteínas','Ganadores de masa','Creatinas','Aminoácidos','Pre-entrenos','Energía','Quemadores','Vitaminas','Colágeno','Citrato de Magnesio','Hidratación','Salud y Bienestar','Barras','Resto de suplementos','Accesorios'];
 var CAT_IMG = {'Proteínas':'star-whey-chocolate','Ganadores de masa':'mutant-mass-chocolate','Creatinas':'creatine-300','Aminoácidos':'mtor-bcaa-green','Pre-entrenos':'star-v8-lima','Energía':'caffeine-200','Quemadores':'cla-1000','Vitaminas':'multivitamin','Colágeno':'collagen-frutos','Citrato de Magnesio':'magnesio','Resto de suplementos':'star-glutamine','Hidratación':'hydro-plus-lima','Salud y Bienestar':'ultimate-melatonin','Barras':'mervick-bar-frambuesa','Accesorios':'star-shaker-gotprotein'};
-var BRANDS = ['Star Nutrition','ENA','Gold Nutrition','One Fit Nutrition','Xtrenght','Ultimate Nutrition','XBody Evolution','Leguilab','Mervick Lab','Innova Naturals'];
+var BRANDS = ['Star Nutrition','ENA','Gold Nutrition','One Fit Nutrition','Xtrenght','Ultimate Nutrition','XBody Evolution','Leguilab','Mervick Lab','Innova Naturals','Labs Nutrition'];
 var GOALS = ['Volumen','Fuerza','Definición','Recuperación','Energía','Resistencia','Salud'];
 
 /* ---------------- HELPERS ---------------- */
@@ -181,7 +188,9 @@ function groupKey(p){ return p.brand+'|'+p.name; }
 function variantsOf(p){ var k=groupKey(p); return CATALOG.filter(function(x){return groupKey(x)===k;}); }
 function collapse(list){
   var seen={}, out=[];
-  list.forEach(function(p){ var k=groupKey(p); if(seen[k])return; seen[k]=1;
+  list.forEach(function(p){
+    if(p.splitCards){ out.push(p); return; } // always shown as its own card, even though it has flavor variants
+    var k=groupKey(p); if(seen[k])return; seen[k]=1;
     // representative: prefer one with a badge, else this one
     var grp=list.filter(function(x){return groupKey(x)===k;});
     var rep=grp.filter(function(x){return x.badge;})[0]||grp[0];
@@ -223,7 +232,7 @@ function toggleMenu(){ var m=qs('#mmenu'),o=qs('#overlay'); if(!m)return; var op
 /* ---------------- RENDER: product card ---------------- */
 function productCard(p){
   var c=el('div','prod-card');
-  var vc=variantsOf(p).length;
+  var vc=p.splitCards?1:variantsOf(p).length;
   c.innerHTML =
     '<div class="prod-media">'+
       '<a href="producto.html?id='+p.id+'" style="position:absolute;inset:0;z-index:1"></a>'+